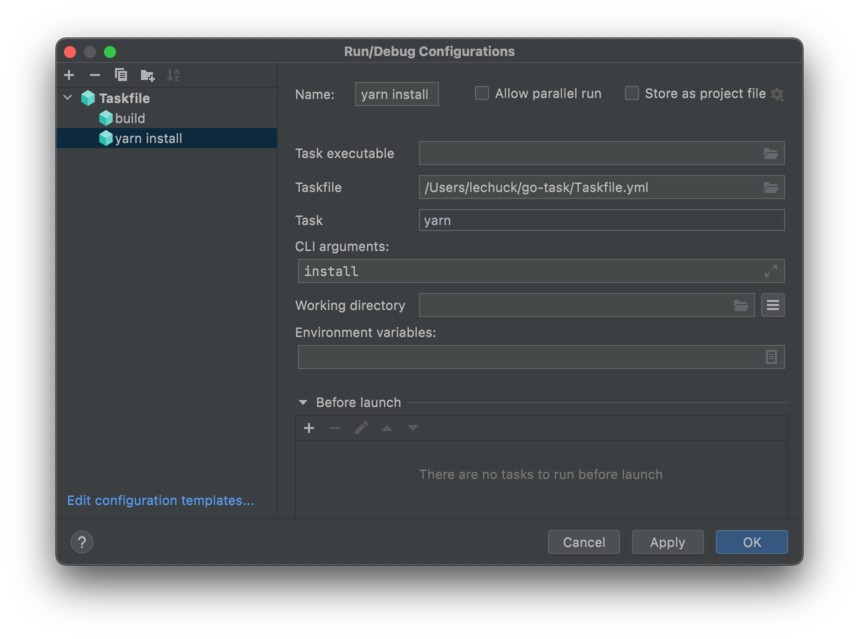
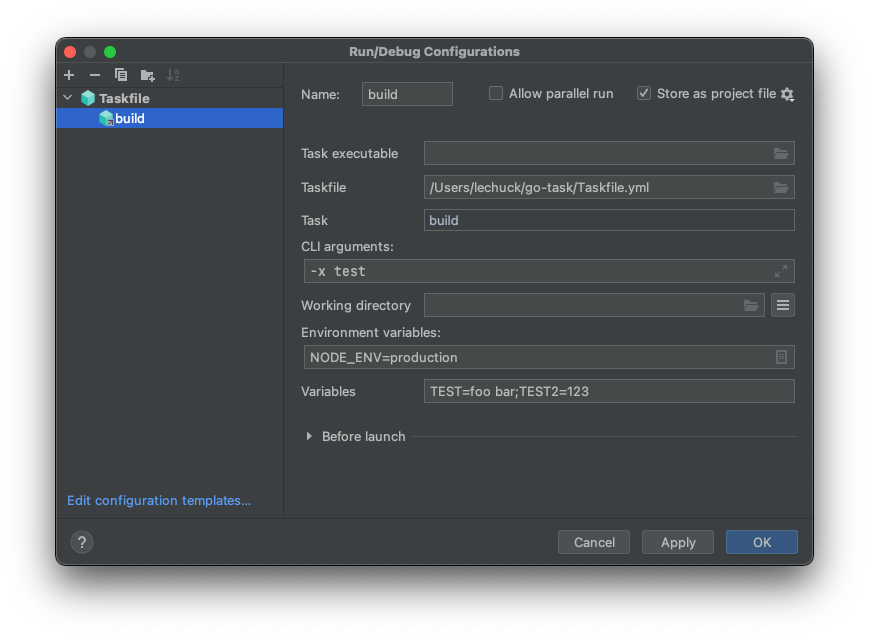
#3 add variables field (v1.3.1)

diff --git a/src/main/kotlin/lechuck/intellij/TaskRunConfiguration.kt b/src/main/kotlin/lechuck/intellij/TaskRunConfiguration.kt
@@ -11,6 +11,7 @@ import com.intellij.openapi.components.PathMacroManager
 import com.intellij.openapi.project.Project
 import com.intellij.util.EnvironmentUtil
 import com.intellij.util.getOrCreate
+import lechuck.intellij.util.StringUtil.splitVars
 import org.jdom.Element
 import java.io.File
 
@@ -23,6 +24,7 @@ class TaskRunConfiguration(project: Project, factory: TaskConfigurationFactory, 
     var arguments = ""
     var workingDirectory = ""
     var environmentVariables: EnvironmentVariablesData = EnvironmentVariablesData.DEFAULT
+    var variables = ""
     var pty = false
 
     private companion object {
@@ -32,6 +34,7 @@ class TaskRunConfiguration(project: Project, factory: TaskConfigurationFactory, 
         const val TASK = "task"
         const val WORKING_DIRECTORY = "workingDirectory"
         const val ARGUMENTS = "arguments"
+        const val VARIABLES = "variables"
         const val PTY = "pty"
     }
 
@@ -51,6 +54,7 @@ class TaskRunConfiguration(project: Project, factory: TaskConfigurationFactory, 
         child.setAttribute(TASK, task)
         child.setAttribute(WORKING_DIRECTORY, workingDirectory)
         child.setAttribute(ARGUMENTS, arguments)
+        child.setAttribute(VARIABLES, variables)
         child.setAttribute(PTY, if (pty) "true" else "false")
         environmentVariables.writeExternal(child)
     }
@@ -70,6 +74,7 @@ class TaskRunConfiguration(project: Project, factory: TaskConfigurationFactory, 
             arguments = child.getAttributeValue(ARGUMENTS) ?: ""
             pty = child.getAttributeValue(PTY) == "true"
             environmentVariables = EnvironmentVariablesData.readExternal(child)
+            variables = child.getAttributeValue(VARIABLES) ?: ""
         }
     }
 
@@ -101,6 +106,16 @@ class TaskRunConfiguration(project: Project, factory: TaskConfigurationFactory, 
                 // task
                 if (task.isNotEmpty()) {
                     params.addParametersString(task)
+                }
+
+                // variables
+                if (variables.isNotEmpty()) {
+                    val varMap = splitVars(variables)
+                    if (varMap.isNotEmpty()) {
+                        varMap.forEach { (key, value) ->
+                            params.add("""$key="$value"""")
+                        }
+                    }
                 }
 
                 // arguments

diff --git a/src/main/kotlin/lechuck/intellij/TaskRunConfigurationEditor.kt b/src/main/kotlin/lechuck/intellij/TaskRunConfigurationEditor.kt
@@ -24,6 +24,7 @@ import com.intellij.util.ui.UIUtil
 import java.awt.BorderLayout
 import javax.swing.JComponent
 import javax.swing.JPanel
+import javax.swing.JTextField
 import javax.swing.event.DocumentEvent
 
 class TaskRunConfigurationEditor(private val project: Project) : SettingsEditor<TaskRunConfiguration>() {
@@ -34,6 +35,7 @@ class TaskRunConfigurationEditor(private val project: Project) : SettingsEditor<
     private val taskField = TextFieldWithAutoCompletion(project, taskCompletionProvider, true, "")
     private val argumentsField = ExpandableTextField()
     private val envVarsComponent = EnvironmentVariablesComponent()
+    private val variablesField = JTextField()
     private val workingDirectoryField = TextFieldWithBrowseButton()
     private val mapper = ObjectMapper(YAMLFactory()).configure(DeserializationFeature.FAIL_ON_UNKNOWN_PROPERTIES, false)
 
@@ -48,6 +50,7 @@ class TaskRunConfigurationEditor(private val project: Project) : SettingsEditor<
             .addComponent(LabeledComponent.create(argumentsField, "CLI arguments"))
             .addLabeledComponent("Working directory", createComponentWithMacroBrowse(workingDirectoryField))
             .addComponent(envVarsComponent)
+            .addLabeledComponent("Variables", variablesField)
             .panel
     }
 
@@ -113,6 +116,7 @@ class TaskRunConfigurationEditor(private val project: Project) : SettingsEditor<
         taskField.text = cfg.task
         argumentsField.text = cfg.arguments
         envVarsComponent.envData = cfg.environmentVariables
+        variablesField.text = cfg.variables
         workingDirectoryField.text = cfg.workingDirectory
 
         updateTargetCompletion(cfg.filename)
@@ -124,6 +128,7 @@ class TaskRunConfigurationEditor(private val project: Project) : SettingsEditor<
         cfg.task = taskField.text
         cfg.arguments = argumentsField.text
         cfg.environmentVariables = envVarsComponent.envData
+        cfg.variables = variablesField.text
         cfg.workingDirectory = workingDirectoryField.text
     }
 

diff --git a/src/test/kotlin/lechuck/intellij/util/StringUtilTest.kt b/src/test/kotlin/lechuck/intellij/util/StringUtilTest.kt
@@ -1,0 +1,17 @@
+package lechuck.intellij.util
+
+import lechuck.intellij.util.StringUtil.splitVars
+import org.junit.Assert
+import org.junit.Test
+
+class StringUtilTest {
+    @Test
+    fun testSplitVarse() {
+        Assert.assertEquals(emptyMap<String, String>(), splitVars(""))
+        Assert.assertEquals(emptyMap<String, String>(), splitVars("  "))
+        Assert.assertEquals(emptyMap<String, String>(), splitVars("foo"))
+        Assert.assertEquals(mapOf("TEST" to ""), splitVars("TEST="))
+        Assert.assertEquals(mapOf("TEST" to "test1"), splitVars("TEST=test1"))
+        Assert.assertEquals(mapOf("TEST" to "foo bar", "TEST2" to "1 2 3"), splitVars("""TEST=foo bar;TEST2=1 2 3"""))
+    }
+}

diff --git a/src/main/kotlin/lechuck/intellij/util/StringUtil.kt b/src/main/kotlin/lechuck/intellij/util/StringUtil.kt
@@ -1,0 +1,18 @@
+package lechuck.intellij.util
+
+object StringUtil {
+    fun splitVars(str: String): Map<String, String> {
+        val varMap = mutableMapOf<String, String>()
+
+        str.split(";").forEach { kvStr ->
+            val idx = kvStr.indexOf("=")
+            if (idx > -1) {
+                val key = kvStr.substring(0, idx)
+                val value = if (idx < kvStr.length - 1) kvStr.substring(idx + 1) else ""
+                varMap[key] = value
+            }
+        }
+
+        return varMap.toMap()
+    }
+}
